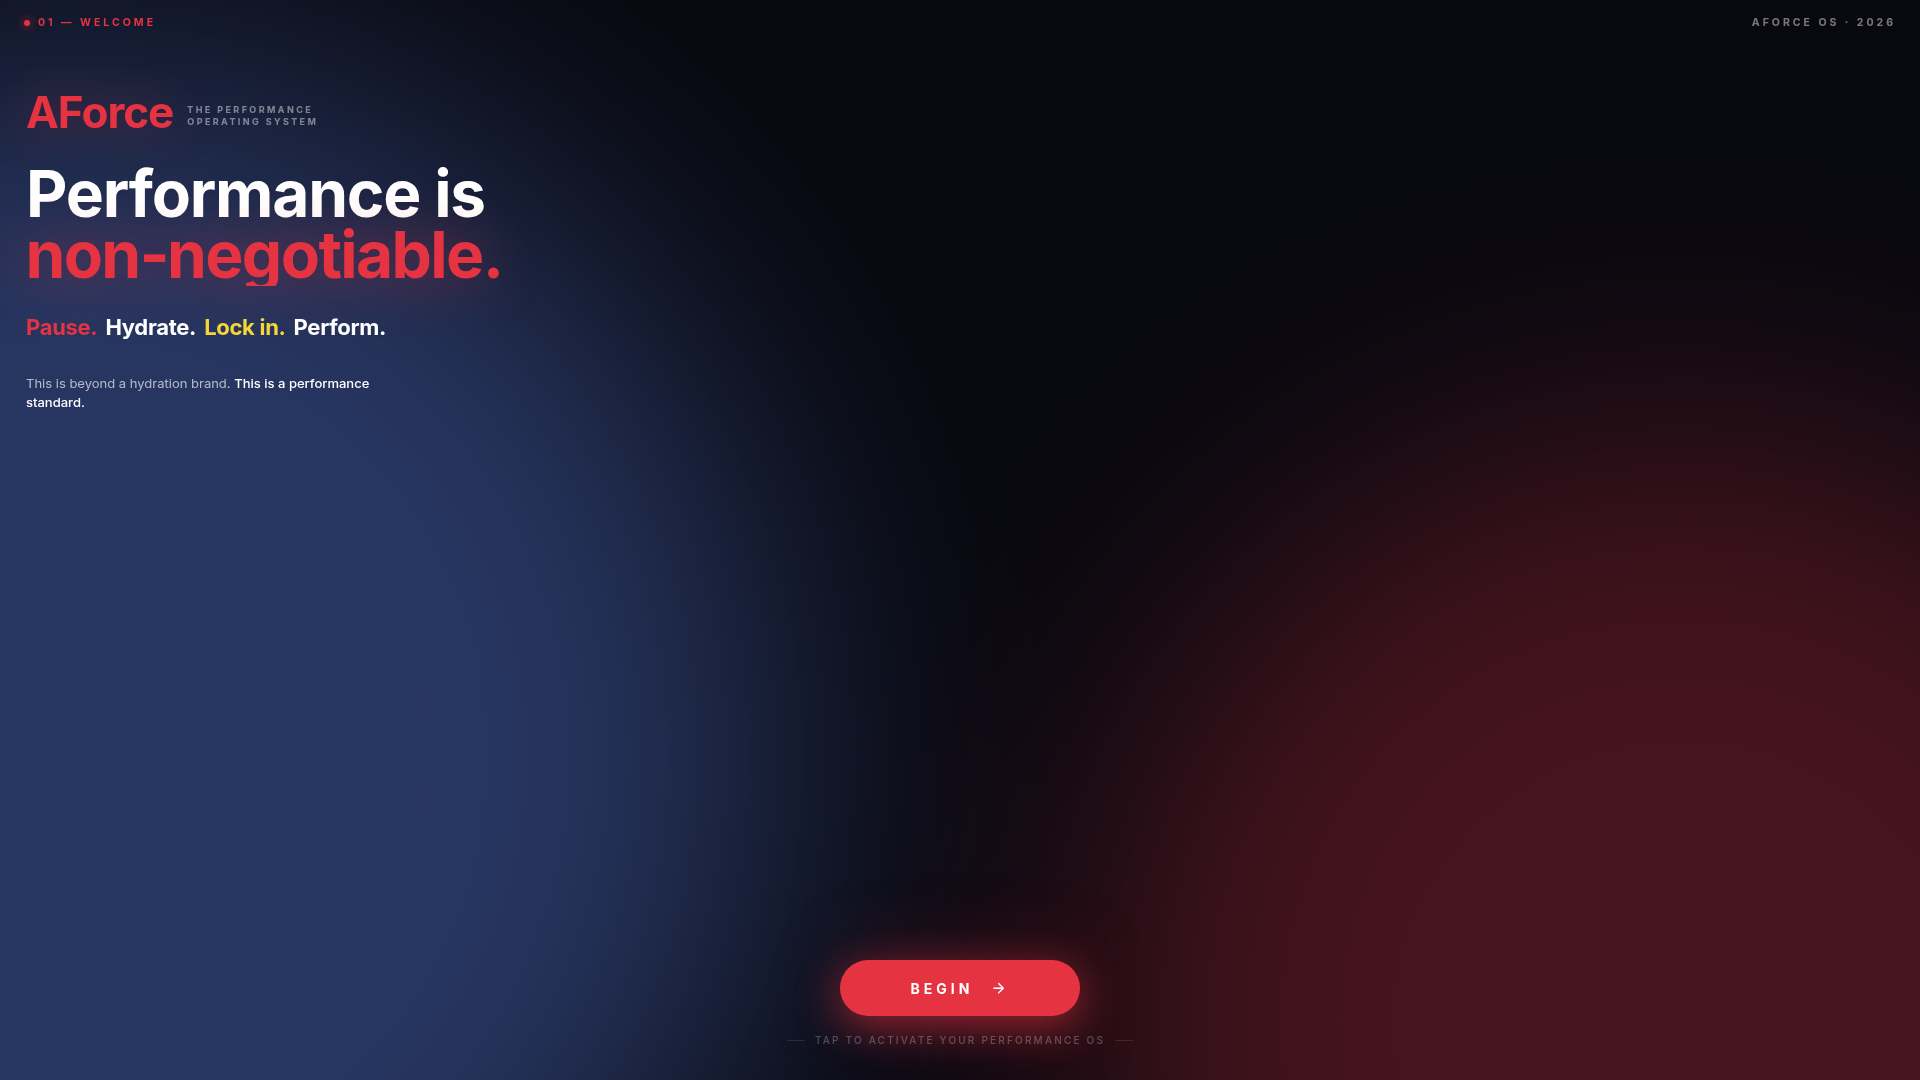
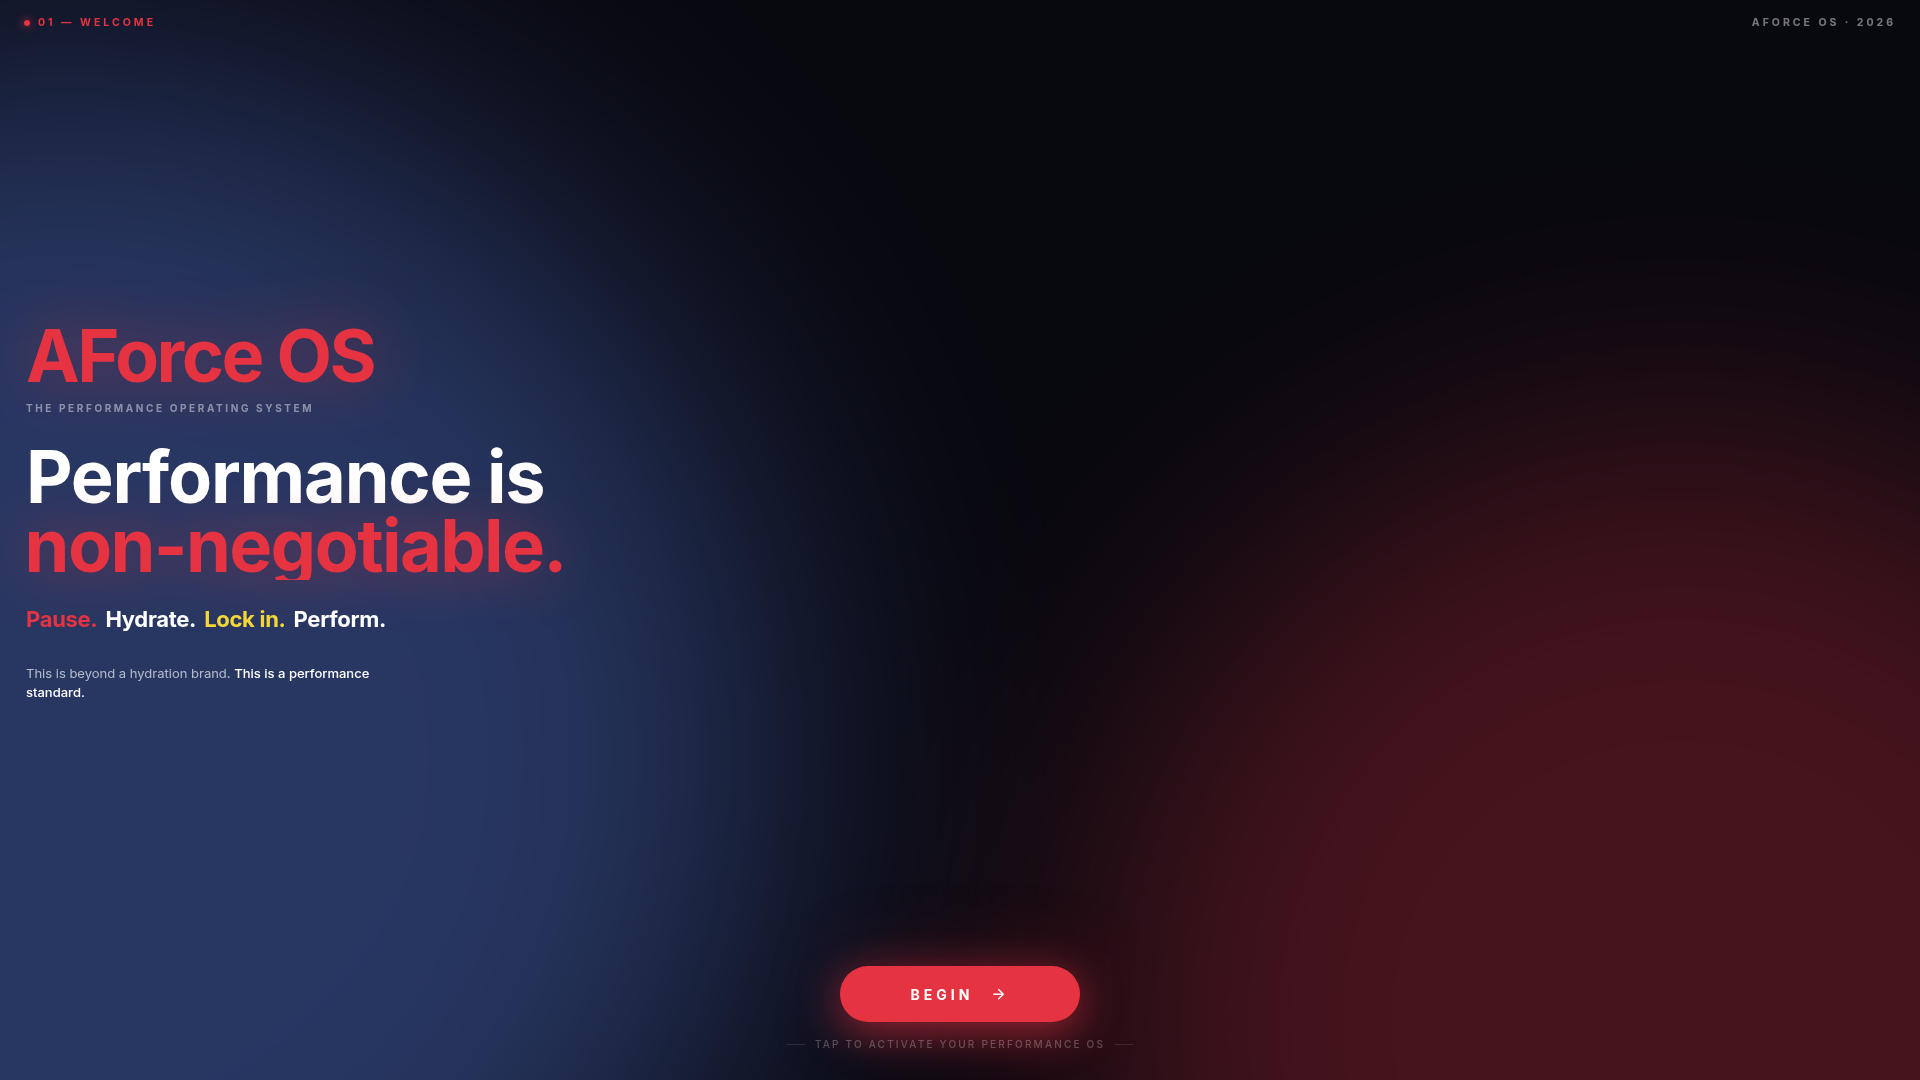
Update app to display "AForce OS" and ensure all content is visible
Adjusts the headline font size and AForce wordmark for better display and ensures all elements are visible on various screen sizes.

Replit-Commit-Author: Agent
Replit-Commit-Session-Id: 735f25c4-ed8e-4817-8f79-73dd845c27a6
Replit-Commit-Checkpoint-Type: full_checkpoint
Replit-Commit-Event-Id: f33c159e-2f95-4139-8c09-3a089f9012c4
Replit-Commit-Screenshot-Url: https://storage.googleapis.com/screenshot-production-us-central1/745ad57f-0f0d-4501-8ad0-cf0ad11b0793/735f25c4-ed8e-4817-8f79-73dd845c27a6/8D6KwL0
Replit-Helium-Checkpoint-Created: true

diff --git a/artifacts/aforce-os/app/welcome.tsx b/artifacts/aforce-os/app/welcome.tsx
@@ -189,8 +189,9 @@ export default function WelcomeScreen() {
   const blueSize = Math.min(width, height) * 1.3;
   const redSize  = Math.min(width, height) * 1.1;
 
-  // Responsive headline size so we don't blow out narrow viewports.
-  const headlineSize = Math.min(64, Math.max(40, width * 0.16));
+  // Responsive headline size so we don't blow out narrow viewports
+  // and so it stays in proportion to the bigger AForce OS wordmark.
+  const headlineSize = Math.min(72, Math.max(42, width * 0.15));
 
   return (
     <View style={styles.root}>
@@ -237,9 +238,9 @@ export default function WelcomeScreen() {
             style={styles.brand}
             numberOfLines={1}
             adjustsFontSizeToFit
-            minimumFontScale={0.6}
+            minimumFontScale={0.5}
           >
-            AForce
+            AForce OS
           </Text>
           <Text style={styles.brandSubtitle}>
             THE PERFORMANCE OPERATING SYSTEM
@@ -432,10 +433,10 @@ const styles = StyleSheet.create({
   },
   brand: {
     fontFamily: F.display,
-    fontSize: 84,
-    lineHeight: 84,
+    fontSize: 72,
+    lineHeight: 76,
     color: C.primary,
-    letterSpacing: -3,
+    letterSpacing: -2.5,
     ...(Platform.OS === 'web'
       ? ({ filter: 'drop-shadow(0 0 32px rgba(229,51,65,0.45))' } as object)
       : { textShadowColor: 'rgba(229,51,65,0.45)', textShadowRadius: 32, textShadowOffset: { width: 0, height: 0 } }),
